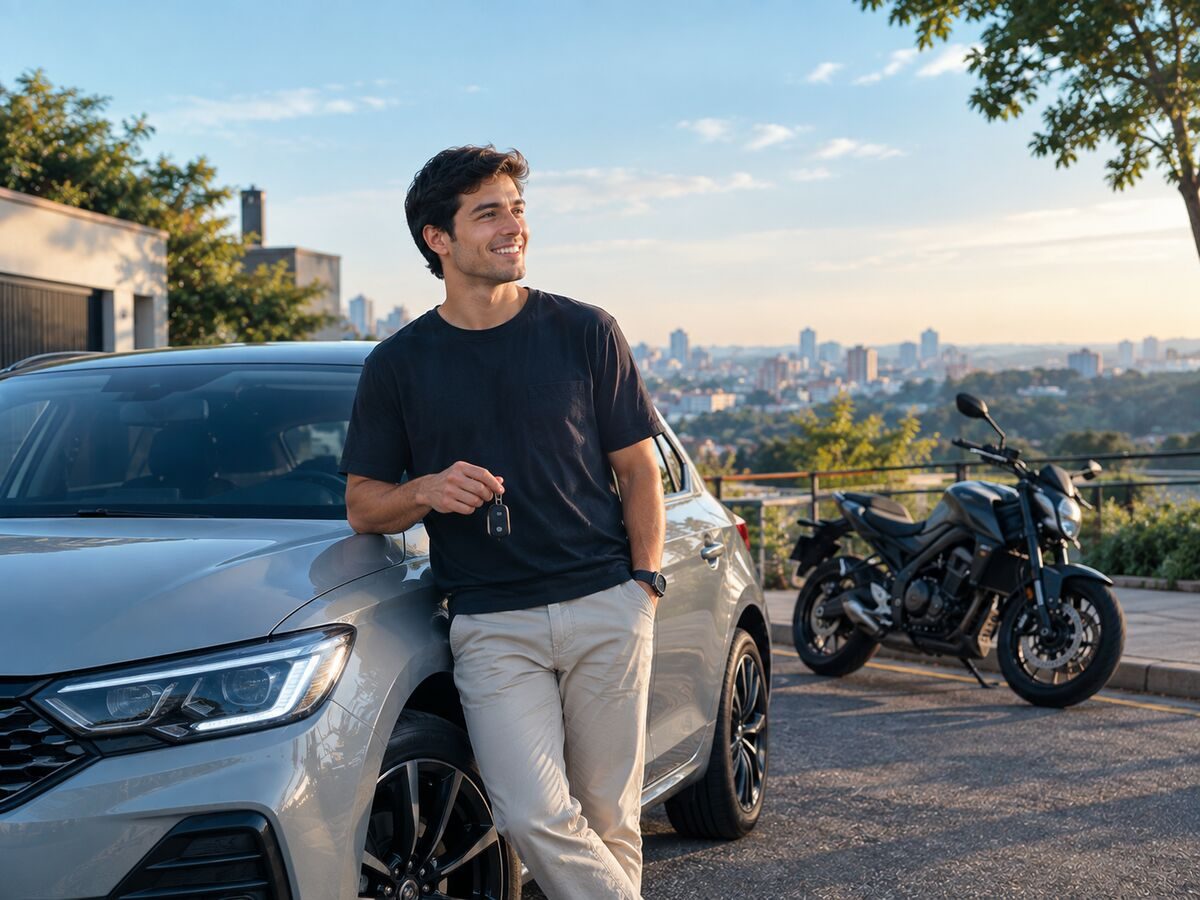
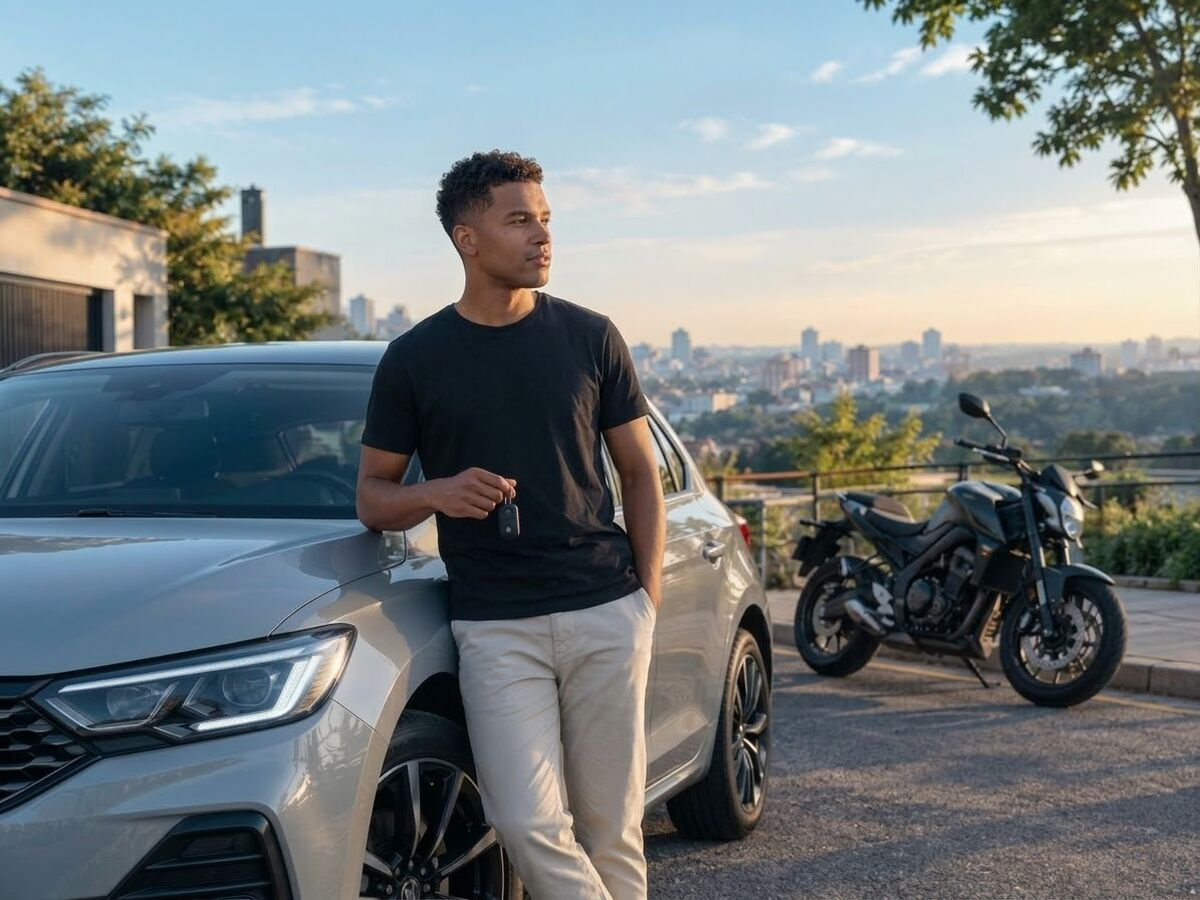
Troca a foto do card "Primeiro carro ou moto"
Claude-Session: https://claude.ai/code/session_01NbZdAJxREaHUiLSeW6hUoJ

diff --git a/index.html b/index.html
@@ -171,7 +171,7 @@
       <article class="card card-insurance">
         <div class="card-media">
           <span class="card-badge">Mais procurado</span>
-          <img src="img/produto-primeiro-carro.jpg" alt="Jovem sorrindo, encostado em um carro, segurando a chave, com uma moto ao fundo" width="1200" height="900" loading="lazy">
+          <img src="img/produto-primeiro-carro.jpg" alt="Jovem encostado em um carro, segurando a chave, com uma moto ao fundo" width="1200" height="900" loading="lazy">
         </div>
         <div class="card-body">
           <h3 class="card-title">Primeiro carro ou moto</h3>
